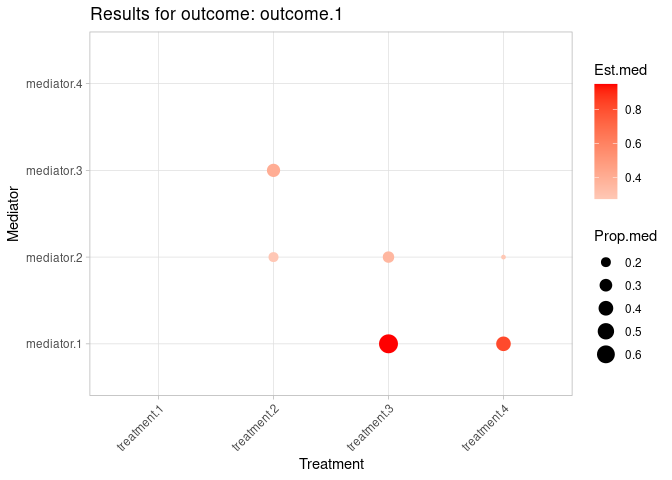
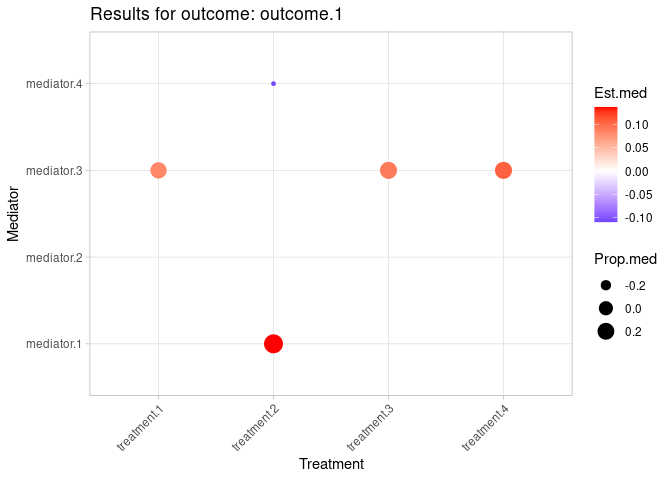
adding biological context to README

diff --git a/README.md b/README.md
@@ -17,31 +17,42 @@ analysis could be performed.
 ## Data
 
 To do so, we will simulate some data. Imagine that we have 100
-individuals for which we have measured 4 different treatments (binary),
-4 different mediators (continuous) and a single outcome (continuous).
+individuals for which we have normalised measures of 4 biochemical
+parameters: LDL, cholesterol, free cholesterol and triglycerides. We
+also have information about ventricle end-diastolic volume and
+end-systolic volume, in both right and left ventricles. In this case,
+the data is binary, with 0 for individuals with normal values, and 1 for
+individuals with ranges out of normality. Finally, we have heart oxygen
+consumption information, also normalised.
+
+Our aim is to study the association between the biochemical parameters
+(*treatments*) and the heart oxygen consumption (*outcome*). In
+addition, we want to determine is any of the ventricle measures
+(*mediators*) somehow explains the underlying mechanism of the
+relationship between the treatments and the outcome.
 
 ``` r
 set.seed(123)
 
 n <- 100
 
-# data for the treatments
+# data for the mediators
 df <- data.frame(
-  treatment.1 = rbinom(n, 1, 0.5), 
-  treatment.2 = rbinom(n, 1, 0.5), 
-  treatment.3 = rbinom(n, 1, 0.5),  
-  treatment.4 = rbinom(n, 1, 0.5),
-  outcome.1 = rnorm(n)
+  mediator.1 = rbinom(n, 1, 0.5), 
+  mediator.2 = rbinom(n, 1, 0.5), 
+  mediator.3 = rbinom(n, 1, 0.5),  
+  mediator.4 = rbinom(n, 1, 0.5)
 )
 
-# data for the mediators
-df$mediator.1 <- - 0.5 * df$treatment.1 + 0.3 * df$treatment.2 + 0.4 * df$treatment.3 + 0.6 * df$treatment.4 + rnorm(n)
-df$mediator.2 <- -0.6 * df$treatment.1 - 0.5 * df$treatment.2 - 0.4 * df$treatment.3 - 0.7 * df$treatment.4 + rnorm(n)
-df$mediator.3 <- - 0.7 * df$treatment.2 - 0.2 * df$treatment.3 - 1 * df$treatment.4 + rnorm(n)
-df$mediator.4 <- - 0.5 * df$treatment.2 - 0.3 * df$treatment.3 - 0.2 * df$treatment.4 - rnorm(n)
+# data for the treatment
+df$treatment.1 <- - 0.5 * df$mediator.1 + 0.3 * df$mediator.2 + 0.4 * df$mediator.3 + 0.6 * df$mediator.4 + rnorm(n)
+df$treatment.2 <- -0.6 * df$mediator.1 - 0.5 * df$mediator.2 - 0.4 * df$mediator.3 - 0.7 * df$mediator.4 + rnorm(n)
+df$treatment.3 <- + df$mediator.3 + rnorm(n)
+df$treatment.4 <- + 0.5 * df$mediator.2 + 0.8 * df$mediator.3 + rnorm(n)
 
 # data for the outcome
-df$outcome.1 <- 1 + 1.2 * df$mediator.1 + 1.0 * df$treatment.1 + 0.8 * df$treatment.2 + 0.6 * df$treatment.3 + 0.9 * df$treatment.4 + rnorm(n)
+df$outcome.1 <- 1 - 1.2 * df$mediator.1 + 1.0 * df$treatment.1 + 0.8 * df$treatment.2 + 0.6 * df$treatment.3 + 0.9 * df$treatment.4 + rnorm(n)
+df <- df %>% mutate(across(where(is.numeric), ~ as.numeric(scale(.))))
 ```
 
 With this data, we hypothesize that some treatments could be responsible
@@ -285,7 +296,7 @@ visual_outcome1_adj0.05 <- visual_htmed(
   , pval = 0.05)
 #> Results with p-value_Prop._Mediated_(average) <= 0.05 will be filtered out
 visual_outcome1_adj0.05
-#> Warning: Removed 10 rows containing missing values or values outside the scale range
+#> Warning: Removed 11 rows containing missing values or values outside the scale range
 #> (`geom_point()`).
 ```
 
@@ -333,7 +344,7 @@ df <- df %>%
 df %>% dplyr::select(split) %>% table(.)
 #> split
 #> Diabetes   HighBP 
-#>       45       55
+#>       47       53
 ```
 
 Under the previous hypothesis, we were perfoming the analyses with the
